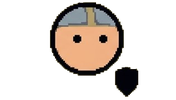
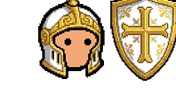
v=18: キャラの絵をレベルごとに変える(Lv2 は10体、Lv3 は進化しない6体、パラディンを描き直し)
- 絵は Gemini で作って切り分け、Lv1 と頭の大きさ・位置をそろえた(176x100)
- 進化の判定を「絵が変わったら」から「名前が変わったら」に

Claude-Session: https://claude.ai/code/session_01K2mQzpCrRAEgYoiGaL4YQH

diff --git a/units.js b/units.js
@@ -2,7 +2,7 @@
    - 道の長さは 100(自分の城 0 → 相手の城 100)。range・spd もこの長さで数える(spd は 1秒に進む長さ)。
    - rate は「何秒に1回」。cd は出撃したあと、次に出せるまでの秒数。size は絵の大きさ(1 がふつう)。
    - キャラは lv[0]〜lv[2] が Lv1〜Lv3。Lv2・Lv3 は、前のレベルから変わるところだけ書く。
-     img・name を書いたレベルで進化する(絵と名前が変わる)。
+     img は、そのレベルの絵(v=18 からレベルごとにちがう絵)。name を書いたレベルで進化する(名前が変わる = 進化)。
    - レベルは試合中にコインで上げる。上げたあとに出すキャラから強くなる(もう出ているキャラはそのまま)。 */
 
 const LANE = 100;
@@ -43,44 +43,44 @@ const PERK_ICON = { coin: '💰', gauge: '⚡', power: '⚔' };
 const UNITS = {
   sword: { role: 'atk', cost: 60, cd: 3, up: [60, 120], lv: [
     { name: 'ソード', img: 'sword', hp: 230, dmg: 45, rate: 1.0, range: 6, spd: 9, desc: '近接。1体に大ダメージ。HPは低い。安くてすぐ出せる' },
-    { dmg: 60, desc: '攻撃力アップ' },
-    { crit: 0.25, desc: 'ときどき2倍ダメージ(会心の一撃)' } ] },
+    { img: 'sword2', dmg: 60, desc: '攻撃力アップ' },
+    { img: 'sword3', crit: 0.25, desc: 'ときどき2倍ダメージ(会心の一撃)' } ] },
   archer: { role: 'atk', cost: 65, cd: 4, up: [65, 130], lv: [
     { name: 'アーチャー', img: 'archer', hp: 150, dmg: 20, rate: 0.95, range: 22, spd: 8, desc: '遠くから速く撃つ' },
-    { rate: 0.7, desc: '撃つのが速くなる' },
+    { img: 'archer2', rate: 0.7, desc: '撃つのが速くなる' },
     { name: 'スナイパー', img: 'sniper', hp: 170, dmg: 130, rate: 2.6, range: 42, spd: 6, sniper: true, desc: '射程がとても長い。城やHPの多い敵をねらう' } ] },
   mage: { role: 'atk', cost: 100, cd: 8, up: [100, 200], lv: [
     { name: 'メイジ', img: 'mage', hp: 160, dmg: 45, rate: 1.8, range: 18, spd: 7, splash: 8, desc: 'まとめて攻撃。かたまった敵に強い' },
-    { splash: 12, desc: '攻撃の範囲が広がる' },
+    { img: 'mage2', splash: 12, desc: '攻撃の範囲が広がる' },
     { name: 'フロスト', img: 'frost', hp: 180, rate: 1.6, slowOnHit: 0.45, desc: 'まとめて攻撃して、敵を遅くする' } ] },
   lancer: { role: 'atk', cost: 70, cd: 4, up: [70, 140], lv: [
     { name: 'ランサー', img: 'lancer', hp: 220, dmg: 32, rate: 1.1, range: 10, spd: 8, pierce: 2, desc: '少し遠くから突く。前に並んだ2体に当たる' },
-    { dmg: 44, desc: '攻撃力アップ' },
-    { pierce: 3, desc: '前に並んだ3体までつらぬく' } ] },
+    { img: 'lancer2', dmg: 44, desc: '攻撃力アップ' },
+    { img: 'lancer3', pierce: 3, desc: '前に並んだ3体までつらぬく' } ] },
   knight: { role: 'tank', cost: 80, cd: 5, up: [80, 160], lv: [
     { name: 'ナイト', img: 'knight', hp: 700, dmg: 18, rate: 1.1, range: 6, spd: 7, desc: 'HPが高く、前で敵を止める。攻撃は弱い' },
-    { hp: 950, desc: 'HPアップ' },
+    { img: 'knight2', hp: 950, desc: 'HPアップ' },
     { name: 'パラディン', img: 'paladin', hp: 1100, dmg: 26, reflect: 0.3, regen: 8, desc: '受けたダメージの一部をはね返す。少しずつ自分も回復' } ] },
   golem: { role: 'tank', cost: 130, cd: 14, up: [130, 260], lv: [
     { name: 'ゴーレム', img: 'golem', hp: 1900, dmg: 32, rate: 1.6, range: 6, spd: 5, size: 1.25, desc: 'HPがとても多い。歩くのは遅い' },
-    { hp: 2500, desc: 'HPアップ' },
-    { splash: 8, desc: '攻撃がまわりの敵にも当たる(地ならし)' } ] },
+    { img: 'golem2', hp: 2500, desc: 'HPアップ' },
+    { img: 'golem3', splash: 8, desc: '攻撃がまわりの敵にも当たる(地ならし)' } ] },
   cleric: { role: 'heal', cost: 85, cd: 9, up: [85, 170], lv: [
     { name: 'クレリック', img: 'cleric', hp: 150, heal: 70, rate: 1.6, range: 18, spd: 7, desc: '味方1体を大きく回復' },
-    { heal: 95, desc: '回復量アップ' },
+    { img: 'cleric2', heal: 95, desc: '回復量アップ' },
     { name: 'シャーマン', img: 'shaman', hp: 190, heal: 30, healAll: true, rate: 1.3, range: 16, desc: 'まわりの味方をみんな回復' } ] },
   bard: { role: 'sup', cost: 55, cd: 8, up: [55, 110], lv: [
     { name: 'バード', img: 'bard', hp: 160, range: 14, spd: 7, haste: 1.4, dmg: 12, rate: 1.0, desc: 'まわりの味方の攻撃を速くする。自分も弱く攻撃する' },
-    { range: 20, desc: '効果の範囲が広がる' },
-    { haste: 1.5, hasteMove: 1.3, desc: '攻撃だけでなく、歩く速さも上がる' } ] },
+    { img: 'bard2', range: 20, desc: '効果の範囲が広がる' },
+    { img: 'bard3', haste: 1.5, hasteMove: 1.3, desc: '攻撃だけでなく、歩く速さも上がる' } ] },
   merchant: { role: 'sup', cost: 100, cd: 15, up: [100, 200], lv: [
     { name: 'マーチャント', img: 'merchant', hp: 220, range: 0, spd: 3, coin: 5, stopAt: 10, desc: '戦わない。出撃しているあいだ、コインのたまる速さが上がる' },
-    { coin: 8, desc: '稼ぐコインが増える' },
-    { coin: 12, cdCut: 0.3, desc: 'さらに増える。出撃の待ち時間も短くなる' } ] },
+    { img: 'merchant2', coin: 8, desc: '稼ぐコインが増える' },
+    { img: 'merchant3', coin: 12, cdCut: 0.3, desc: 'さらに増える。出撃の待ち時間も短くなる' } ] },
   engineer: { role: 'sup', cost: 80, cd: 12, up: [80, 160], lv: [
     { name: 'エンジニア', img: 'engineer', hp: 200, range: 0, spd: 3, repair: 12, stopAt: 6, build: true, desc: '戦わない。城が無事なら旗の手前にバリケードを建てて、もどる。城がけずられたら直す' },
-    { repair: 20, desc: '城を直す量が増える' },
-    { gauge: 0.5, desc: '城の一撃のゲージも速くたまる' } ] },
+    { img: 'engineer2', repair: 20, desc: '城を直す量が増える' },
+    { img: 'engineer3', gauge: 0.5, desc: '城の一撃のゲージも速くたまる' } ] },
 };
 const UNIT_KEYS = Object.keys(UNITS);
 

diff --git a/game.js b/game.js
@@ -393,7 +393,7 @@ function home() {
 function draft(online) {
   stopLoop();
   const cards = UNIT_KEYS.map(k => {
-    const u = UNITS[k], on = picks.includes(k), a = u.stats[0], z = u.stats[2], evo = z.img !== a.img;
+    const u = UNITS[k], on = picks.includes(k), a = u.stats[0], z = u.stats[2], evo = z.name !== a.name;
     return `<button class="ucard ${on ? 'on' : ''} r-${u.role}" data-k="${k}">
       <img src="${imgSrc(a.img)}" alt="">
       <span class="nm">${T(a.name)}</span>
@@ -486,7 +486,7 @@ function play(opt) {
     if (B.pl[ME].coin < upCost(ME, k)) { toast(T('コインが足りない')); return; }
     if (act('u', k, 0) === false) return;
     const after = UNITS[k].stats[lvOf(ME, k) - 1 + (B.online ? 1 : 0)];
-    toast(after.img !== before.img ? T('{a} が {b} に進化！', { a: T(before.name), b: T(after.name) }) : T('{name} が Lv{n} に！', { name: T(after.name), n: lvOf(ME, k) + (B.online ? 1 : 0) }) + ' ' + T(after.desc));
+    toast(after.name !== before.name ? T('{a} が {b} に進化！', { a: T(before.name), b: T(after.name) }) : T('{name} が Lv{n} に！', { name: T(after.name), n: lvOf(ME, k) + (B.online ? 1 : 0) }) + ' ' + T(after.desc));
   });
   app.querySelectorAll('[data-sl]').forEach(b => b.onclick = () => { if (B.gauge[MS] < STRIKE.charge) { toast(T('ゲージがたまっていない')); return; } act('x', null, VL(+b.dataset.sl)); });
   if (!B.online) {

diff --git a/index.html b/index.html
@@ -14,16 +14,16 @@
 <title>BANNER RAID｜Muddy's Games</title>
 <meta name="description" content="キャラを出撃させて相手の城を落とす、1対1の対戦タワーディフェンス。12体のキャラから4体を選んで戦います。">
 <!-- ?v= の数字は、ファイルを直したら上げる(古いファイルが残らないように) -->
-<link rel="stylesheet" href="style.css?v=17">
+<link rel="stylesheet" href="style.css?v=18">
 </head><body><div id="app"></div>
 <!-- Firebase(Labyrinth・お絵描きと同じプロジェクト labyrinth-game-bc5aa。オンライン対戦で使う) -->
 <script src="https://www.gstatic.com/firebasejs/10.12.2/firebase-app-compat.js"></script>
 <script src="https://www.gstatic.com/firebasejs/10.12.2/firebase-database-compat.js"></script>
 <script src="https://www.gstatic.com/firebasejs/10.12.2/firebase-auth-compat.js"></script>
 <script src="https://www.gstatic.com/firebasejs/10.12.2/firebase-app-check-compat.js"></script>
-<script src="config.js?v=17"></script>
-<script src="i18n.js?v=17"></script>
-<script src="units.js?v=17"></script>
-<script src="game.js?v=17"></script>
-<script src="net.js?v=17"></script>
+<script src="config.js?v=18"></script>
+<script src="i18n.js?v=18"></script>
+<script src="units.js?v=18"></script>
+<script src="game.js?v=18"></script>
+<script src="net.js?v=18"></script>
 </body></html>
